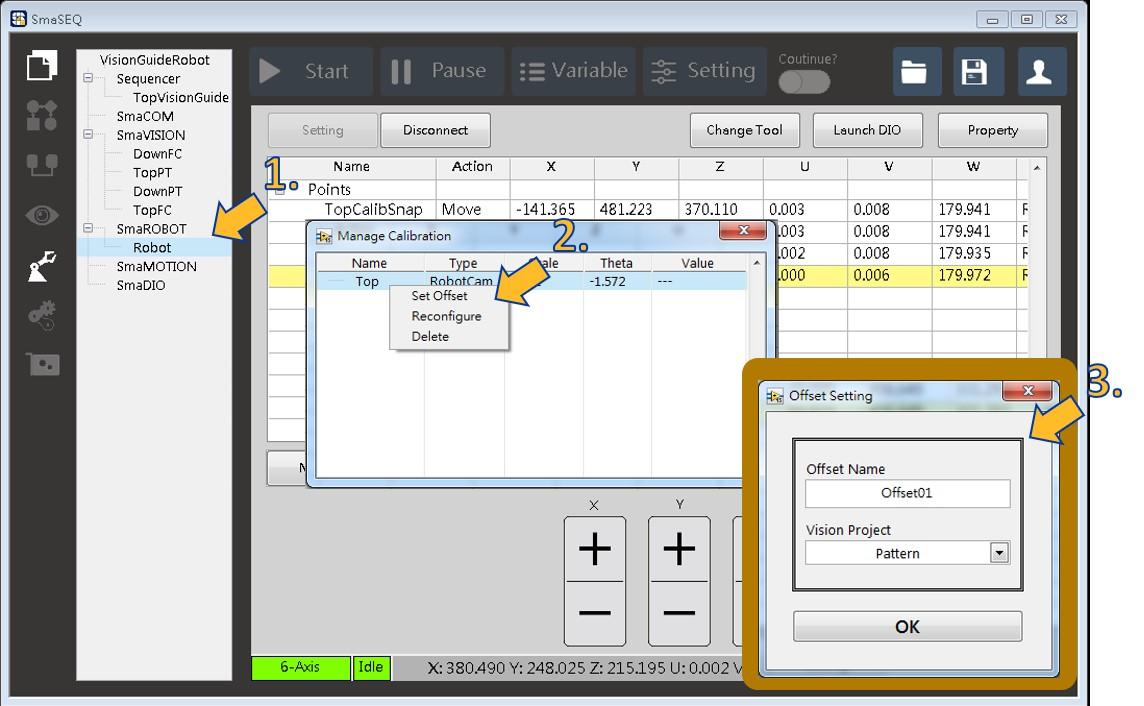
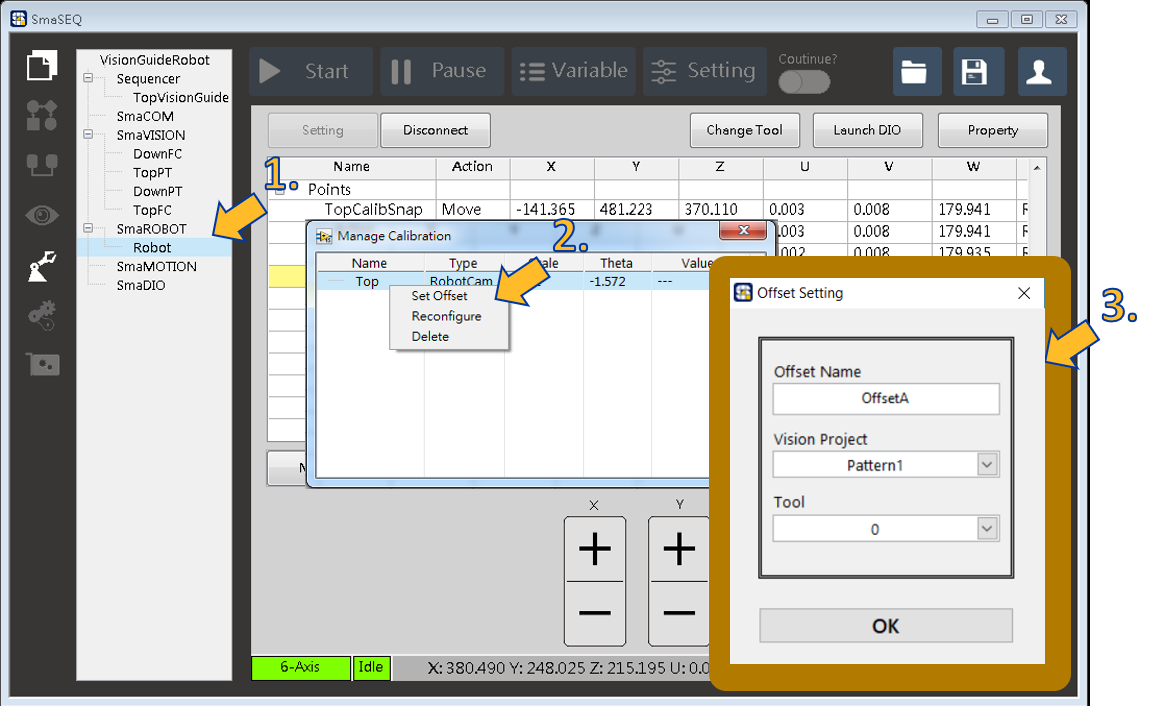
GitBook: [SmaROBOT] 2 pages and 3 assets modified

diff --git a/smarobot-mo/yin/ding/ding-offset.md b/smarobot-mo/yin/ding/ding-offset.md
@@ -1,51 +1,93 @@
 # 設定Offset
 
-解決RobotCam視覺引導點非抓取點的應用 前置動作: 先移動到拍照點，若抓取時有用Tool，則切換Tool再開始設定Offset。
+設定Offset目的是為了解決RobotCam視覺引導點非抓取點的應用。
 
-* 建立Offset step 1：
+{% hint style="info" %}
+前置動作: 先移動手臂到拍照點再執行以下程序。
+{% endhint %}
 
-![&#x5EFA;&#x7ACB;Offset&#x6D41;&#x7A0B;step 1](../../../.gitbook/assets/jian-li-offset1.jpg)
+* **Step 1：**
+
+![&#x521D;&#x59CB;&#x5316;&#x8A2D;&#x5B9A;](../../../.gitbook/assets/jian-li-offset1.jpg)
 
 1. 右鍵點擊先前建立的SmaRobot模組，選擇Vision Guide Setup。
 2. 從先前建立的RobotCam校正右鍵點擊Set Offset。
-3. 從彈出的視窗中填寫名稱與要使用的專案名稱。
+3. 從彈出的視窗中填寫名稱與要使用的專案名稱與要使用的Tool。
 
-* 建立Offset step 2：
+{% hint style="info" %}
+此處選擇的Tool會影響手臂到視覺引導點的位置。例如，若先前已設定一Tool偏移法蘭面中心X:50, Y:30，則在導引時，是以該Tool點位置到達視覺導引點正上方。選擇Tool0，則是法蘭面中心會到視覺引導點正上方。
+{% endhint %}
 
-![&#x5EFA;&#x7ACB;Offset&#x6D41;&#x7A0B;step 2](../../../.gitbook/assets/jian-li-offset2.jpg)
+{% hint style="info" %}
+若在流程中是要以Tool點導引，則此處需選擇相對應的Tool設定Offset。
+{% endhint %}
 
-1. 相機取像並定位，點擊Next會將法蘭面中心或選用的Tool中心移動到有定位Pattern的正上方，若有角度也會旋轉。
+* **Step 2 :**
 
-* 建立Offset step 3：
+![&#x8A2D;&#x5B9A;&#x6A19;&#x6E96;&#x503C;\(Golden Sample\)](../../../.gitbook/assets/offset-set-golden.png)
 
-![&#x5EFA;&#x7ACB;Offset&#x6D41;&#x7A0B;step 3](../../../.gitbook/assets/jian-li-offset3.jpg)
+1. 按下Next設定此樣品的位置及角度為標準值，之後的視覺導引便會以新取像到的樣品位置做比較，並引導手臂。
 
-1. 此時法蘭面或是Tool中心應在Pattern的正上方，操作左下方的操作盤，來使Tool移動到抓取點，若移動完畢，請點選Next。
+* **Step 3：**
 
-* 建立Offset step 4：
+![&#x5C0E;&#x5F15;&#x624B;&#x81C2;&#x5230;Pattern&#x6B63;&#x4E0A;&#x65B9;](../../../.gitbook/assets/jian-li-offset2.jpg)
 
-![&#x5EFA;&#x7ACB;Offset&#x6D41;&#x7A0B;step 4](../../../.gitbook/assets/jian-li-offset4.jpg)
+1. 相機取像並定位，點擊Next會將法蘭面中心或選用的Tool中心移動到定位Pattern的正上方。
 
-1. Offset設定完成，請點擊Next回到起始位置。
+{% hint style="info" %}
+按下Next後，手臂會依據視覺導引開始移動，請注意周遭設備避免碰撞，並準備好急停按鈕。
+{% endhint %}
 
-* 建立Offset step 5：
+* **Step 4：**
 
-![&#x5EFA;&#x7ACB;Offset&#x6D41;&#x7A0B;step 5](../../../.gitbook/assets/jian-li-offset5.jpg)
+![&#x64CD;&#x4F5C;&#x624B;&#x81C2;&#x79FB;&#x52D5;&#x81F3;&#x9700;&#x8981;&#x7684;&#x6293;&#x53D6;&#x9EDE;](../../../.gitbook/assets/jian-li-offset3.jpg)
 
-1. 在相機能拍到的範圍內，將要抓取的元件隨意移動，並按下Next來將Tool點移動到抓取點\(此步驟是為了驗證剛剛設定的Offset是否正確\)。
+1. 此時法蘭面或是Tool中心應在Pattern的正上方，操作左下方的操作盤，來使Tool移動到需要的抓取點。若移動完畢，請點選Next。
 
-* 建立Offset step 6：
+{% hint style="info" %}
+手動操縱過程中，請注意周遭設備避免碰撞，並準備好急停按鈕。
+{% endhint %}
 
-![&#x5EFA;&#x7ACB;Offset&#x6D41;&#x7A0B;step 6](../../../.gitbook/assets/jian-li-offset6.jpg)
+* **Step 5：**
 
-1. 若Offset設定正確無誤，此時Tool點應在抓取點。
+![Offset&#x8A2D;&#x5B9A;&#x5B8C;&#x6210;](../../../.gitbook/assets/jian-li-offset4.jpg)
+
+1. Offset設定完成，請點擊Next使手臂回到回到起始位置。
+
+{% hint style="info" %}
+按下Next後，手臂會移動到起始拍照位置。請注意周遭設備避免碰撞，並準備好急停按鈕。
+{% endhint %}
+
+* **Step 6：**
+
+![&#x96A8;&#x610F;&#x79FB;&#x52D5;&#x6A23;&#x54C1;](../../../.gitbook/assets/jian-li-offset5.jpg)
+
+1. 在相機能拍到的範圍內，將要抓取的元件隨意移動並旋轉，並按下Next來將Tool點移動到抓取點。
+
+{% hint style="info" %}
+此步驟是為了驗證視覺導引是否正確。按下Next後，手臂會使Tool移動到先前設定的抓取點。請注意周遭設備避免碰撞，並準備好急停按鈕。
+{% endhint %}
+
+* **Step 7：**
+
+![&#x79FB;&#x52D5;&#x5230;&#x6293;&#x53D6;&#x9EDE;](../../../.gitbook/assets/jian-li-offset6.jpg)
+
+1. 若Offset設定正確無誤，此時Tool需在抓取點位置。
 2. 按下Next回到初始位置。
 
-* 建立Offset 完成：
+{% hint style="info" %}
+按下Next後，手臂會移動到起始拍照位置。請注意周遭設備避免碰撞，並準備好急停按鈕。
+{% endhint %}
 
-![&#x5EFA;&#x7ACB;Offset&#x5B8C;&#x6210;](../../../.gitbook/assets/jian-li-offset7.jpg)
+* **Step 8 :**
 
-* 若成功建立，Manage Calibration視窗會多一項Offset。
+![&#x5EFA;&#x7ACB;Offset&#x5C0E;&#x5F15;&#x7D50;&#x675F;](../../../.gitbook/assets/jian-li-offset7.jpg)
+
+1. 設定Offset導引過程結束。
+
+* **Step 9 :**
 
 ![Manage Calibration&#x65B0;&#x589E;Offset&#x5B8C;&#x6210;](../../../.gitbook/assets/jian-li-offset8.jpg)
+
+若成功建立，Manage Calibration視窗會多一項Offset。
 

diff --git a/smarobot-mo/yin/ding-yin-xian.md b/smarobot-mo/yin/ding-yin-xian.md
@@ -9,3 +9,6 @@
 
 ![Guide Move Setup Advanced&#x8A2D;&#x5B9A;](../../.gitbook/assets/guidemove-she-ding-2.jpg)
 
+1. 選擇要限制的方向與上下極限\(目前只支援純數，不支援變數\)。
+2. 關閉視窗完成儲存。
+
